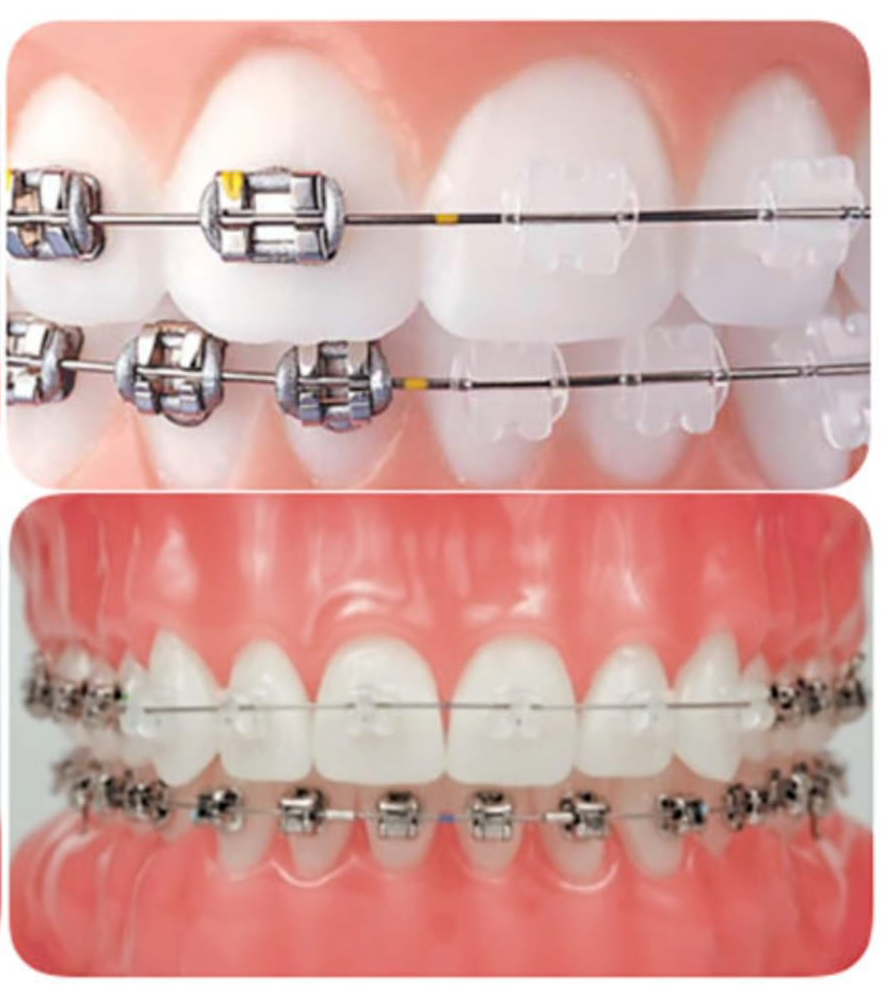
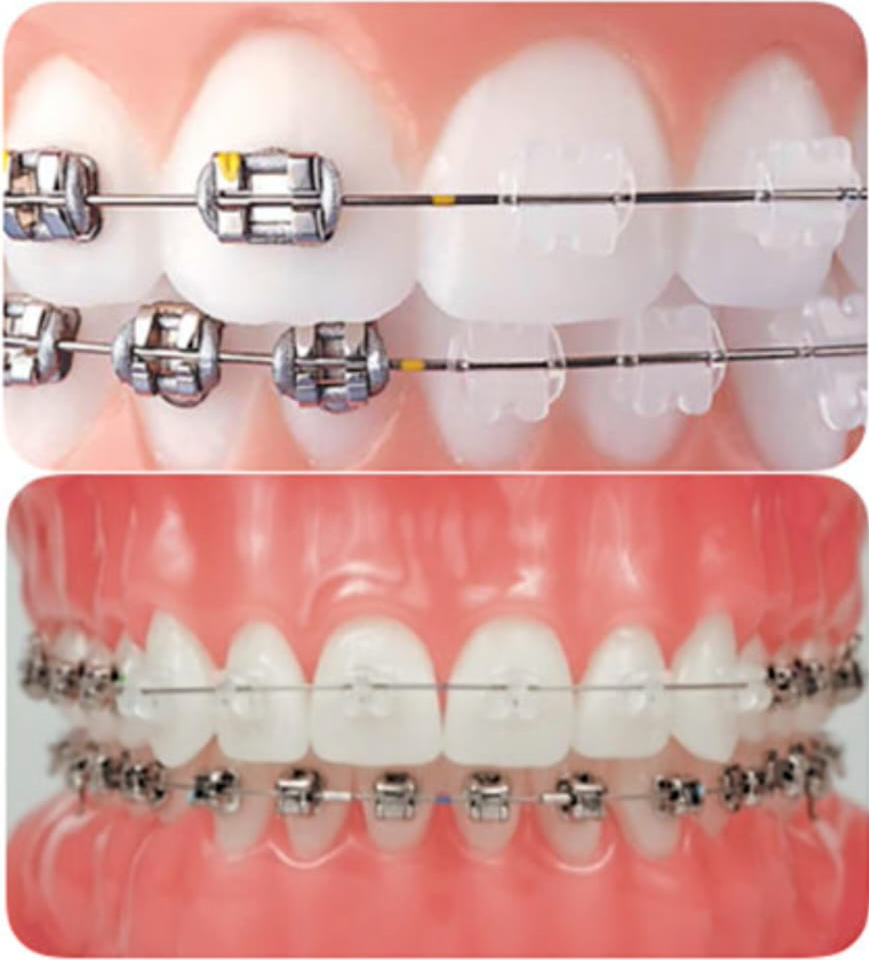
feat: servizi grid with images

diff --git a/index.html b/index.html
@@ -368,6 +368,10 @@
       .service-card--text {
         grid-row: span 1;
       }
+      .service-card--image-only {
+        grid-row: span 1;
+        min-height: 0;
+      }
       .service-card--media {
         display: flex;
         grid-row: span 2;
@@ -421,6 +425,75 @@
       width: 100%;
       height: 100%;
       object-fit: cover;
+      display: block;
+    }
+    .service-card--image-only {
+      display: flex;
+      flex-direction: column;
+      min-height: 0;
+      overflow: hidden;
+    }
+    .service-card--image-only .service-card__figure {
+      flex: 1 1 auto;
+      margin: 0;
+      position: relative;
+      overflow: hidden;
+      min-height: 10rem;
+      background: #eef7fc;
+    }
+    @media (min-width: 992px) {
+      /* Evita altezza 0 in griglia densa (figure con min-height 0 + cella ambigua = card “invisibile”). */
+      .service-card--image-only .service-card__figure {
+        min-height: 10.5rem;
+        flex: 1;
+      }
+    }
+    .service-card--image-only .service-card__figure img {
+      position: absolute;
+      inset: 0;
+      width: 100%;
+      height: 100%;
+      object-fit: cover;
+      object-position: center;
+      display: block;
+    }
+    .service-card--image-only.service-card--image-contain .service-card__figure {
+      padding: 0.85rem;
+      box-sizing: border-box;
+    }
+    .service-card--image-only.service-card--image-contain .service-card__figure img {
+      object-fit: contain;
+    }
+    /* Aligner PNG: sempre a tutta larghezza nel card, niente ritaglio, ratio naturale */
+    .service-card.service-card--image-only.service-card--image-fullwidth {
+      height: auto;
+      align-self: start;
+      background: #fff;
+    }
+    .service-card--image-only.service-card--image-fullwidth .service-card__figure {
+      position: static;
+      flex: 0 1 auto;
+      min-height: 0;
+      display: flex;
+      align-items: center;
+      justify-content: center;
+      padding: 0.65rem;
+      box-sizing: border-box;
+      background: #fff;
+    }
+    @media (min-width: 992px) {
+      .service-card--image-only.service-card--image-fullwidth .service-card__figure {
+        min-height: 0;
+      }
+    }
+    .service-card--image-only.service-card--image-fullwidth .service-card__figure img {
+      position: static;
+      inset: auto;
+      width: 100%;
+      max-width: 100%;
+      height: auto;
+      object-fit: contain;
+      object-position: center;
       display: block;
     }
     .service-card__top-accent {
@@ -1359,19 +1432,24 @@
     </section>
 
     <section id="servizi" class="services">
-      <div class="section-title">
+      <!-- <div class="section-title">
         <h2>In evidenza</h2>
         <p>I nostri servizi</p>
-      </div>
+      </div> -->
       <div class="services-grid">
         <div class="service-card service-card--media service-card--extra">
           <div class="service-card__image">
-            <img src="assets/images/brackets-types.png" alt="Tipi di brackets e soluzioni ortodontiche">
+            <img src="assets/images/brackets-silver-ceramic.png" alt="Brackets in metallo e ceramica per ortodonzia" loading="lazy" decoding="async">
           </div>
           <div class="service-card__body">
             <h3>Ortodonzia e gnatologia</h3>
             <p>Apparecchi fissi e mobili, allineatori trasparenti per un sorriso perfetto a ogni età; integrazione con la valutazione gnatologica quando necessario.</p>
-            <p class="service-card__more-row"><a href="#" class="service-card__more-link" data-modular-overlay-open="ortodonzia-overlay" aria-haspopup="dialog">I servizi</a></p>
+            <p class="service-card__more-row"><a href="#" class="service-card__more-link" data-modular-overlay-open="ortodonzia-overlay" aria-haspopup="dialog">Maggiori informazioni</a></p>
+          </div>
+        </div>
+        <div class="service-card service-card--image-only service-card--image-fullwidth">
+          <div class="service-card__figure">
+            <img src="assets/images/aligner-transparent.png" alt="Allineatore trasparente per ortodonzia" loading="lazy" decoding="async">
           </div>
         </div>
         <div class="service-card service-card--text">
@@ -1381,11 +1459,21 @@
             <p>Interventi implantari per sostituire denti mancanti in modo stabile e naturale.</p>
           </div>
         </div>
+        <div class="service-card service-card--image-only">
+          <div class="service-card__figure">
+            <img src="assets/images/morlino-main-door.webp" alt="Ingresso dello Studio Dentistico Morlino" loading="lazy" decoding="async">
+          </div>
+        </div>
         <div class="service-card service-card--text">
           <div class="service-card__top-accent" aria-hidden="true"></div>
           <div class="service-card__body">
             <h3>Protesi fissa e mobile</h3>
             <p>Soluzioni protesiche personalizzate per ripristinare funzione, comfort ed estetica.</p>
+          </div>
+        </div>
+        <div class="service-card service-card--image-only">
+          <div class="service-card__figure">
+            <img src="assets/images/morlino-team.webp" alt="Staff dello Studio Dentistico Morlino" loading="lazy" decoding="async">
           </div>
         </div>
         <div class="service-card service-card--text">
@@ -1395,6 +1483,16 @@
             <p>Estrazioni e interventi di chirurgia orale ambulatoriale quando indicati, dopo valutazione in studio.</p>
           </div>
         </div>
+        <div class="service-card service-card--image-only">
+          <div class="service-card__figure">
+            <img src="assets/images/morlino-waiting-room.webp" alt="Sala di attesa dello studio" loading="lazy" decoding="async">
+          </div>
+        </div>
+        <div class="service-card service-card--image-only">
+          <div class="service-card__figure">
+            <img src="assets/images/opt.png" alt="Ortopantomogramma: radiografia ortopanoramica delle arcate dentali" loading="lazy" decoding="async">
+          </div>
+        </div>
         <div class="service-card service-card--text">
           <div class="service-card__top-accent" aria-hidden="true"></div>
           <div class="service-card__body">
@@ -1402,20 +1500,51 @@
             <p>Cure canalari conservative per trattenere il dente naturale con tecniche moderne.</p>
           </div>
         </div>
+        <div class="service-card service-card--image-only service-card--image-contain">
+          <div class="service-card__figure">
+            <img src="assets/images/thoot-icon.png" alt="Odontoiatria e sorriso" loading="lazy" decoding="async">
+          </div>
+        </div>
+        <div class="service-card service-card--media">
+          <div class="service-card__image">
+            <img src="assets/images/whitening-blancone.jpeg" alt="Sbiancamento professionale e salute delle gengive">
+          </div>
+          <div class="service-card__body">
+            <h3>Igiene orale e sbiancamento dentale</h3>
+            <p>Pulizia professionale, prevenzione e controlli periodici; sbiancamento efficace e sicuro su indicazione clinica.</p>
+          </div>
+        </div>
+        <div class="service-card service-card--image-only">
+          <div class="service-card__figure">
+            <img src="assets/images/igiene-orale-piacere.webp" alt="Piacere nell'igiene orale e nella cura delle gengive" loading="lazy" decoding="async">
+          </div>
+        </div>
         <div class="service-card service-card--media service-card--extra">
           <span class="gallery-card__extra-badge" aria-hidden="true">Approfondimento</span>
           <div class="service-card__image">
-            <img src="assets/images/velvet-tmj-full.png" alt="Tecar Velvet TMJ">
+            <img src="assets/images/velvet-tmj-full.png" alt="Velvet TMJ: medical device in studio">
           </div>
           <div class="service-card__body">
             <h3>Tecar Velvet TMJ</h3>
-            <p>Tecnologia non invasiva che combina diatermia ed elettroporazione per il benessere dell'apparato temporo-mandibolare.</p>
+            <p>Nel nostro studio utilizziamo Velvet TMJ, un medical device che combina diatermia ed elettroporazione per trattamenti non invasivi verso il benessere dell'apparato temporo-mandibolare e del cavo orale.</p>
             <p class="service-card__more-row"><a href="#" class="service-card__more-link" data-modular-overlay-open="velvet-tmj-overlay" aria-haspopup="dialog">Informazioni sul trattamento</a></p>
+          </div>
+        </div>
+        <div class="service-card service-card--media service-card--extra">
+          <span class="gallery-card__extra-badge" aria-hidden="true">Approfondimento</span>
+          <div class="service-card__image">
+            <img src="assets/images/card-sinergia-vincente.png" alt="Sinergia vincente con Velvet TMJ">
+          </div>
+          <div class="service-card__body">
+            <h3>Benefici del Velvet TMJ</h3>
+            <p>Diatermia ed elettroporazione lavorano in sinergia per biostimolazione tessutale, riduzione dell'infiammazione e del dolore con percorsi rapidi, indolori e non invasivi. Scopri a quali sintomi e situazioni può essere utile e quali benefici attendersi nel tempo.</p>
             <p class="service-card__more-row"><a href="#" class="service-card__more-link" data-modular-overlay-open="velvet-consigli-overlay" aria-haspopup="dialog">Perché funziona</a></p>
           </div>
         </div>
-        <div class="service-card service-card--text">
-          <div class="service-card__top-accent" aria-hidden="true"></div>
+        <div class="service-card service-card--media">
+          <div class="service-card__image">
+            <img src="assets/images/opt-scans.jpg" alt="Scansioni panoramiche in esposizione in studio" loading="lazy" decoding="async">
+          </div>
           <div class="service-card__body">
             <h3>Radiografia ortopanoramica (OPT)</h3>
             <p>Vista panoramica delle arcate e delle strutture circostanti per diagnosi chiare e piani di cura condivisi.</p>
@@ -1426,15 +1555,6 @@
           <div class="service-card__body">
             <h3>Scanner intraorale per impronta ottica</h3>
             <p>Impronta digitale veloce e confortevole, senza paste tradizionali, per progetti protesici e ortodontici precisi.</p>
-          </div>
-        </div>
-        <div class="service-card service-card--media">
-          <div class="service-card__image">
-            <img src="assets/images/whitening-blancone.jpeg" alt="Sbiancamento professionale e salute delle gengive">
-          </div>
-          <div class="service-card__body">
-            <h3>Igiene orale e sbiancamento dentale</h3>
-            <p>Pulizia professionale, prevenzione e controlli periodici; sbiancamento efficace e sicuro su indicazione clinica.</p>
           </div>
         </div>
         <div class="service-card service-card--media service-card--extra service-card--disturbi-sonno">
@@ -1460,7 +1580,18 @@
           <div class="gallery-card__content">
             <h3 class="gallery-card__title"><a href="#" data-modular-overlay-open="velvet-tmj-overlay" aria-haspopup="dialog">Velvet TMJ</a></h3>
             <p class="gallery-card__text">Nel nostro studio utilizziamo Velvet TMJ, un medical device che combina diatermia ed elettroporazione per trattamenti non invasivi verso il benessere dell'apparato temporo-mandibolare e del cavo orale.</p>
-            <p class="gallery-card__text"><a href="#" class="gallery-card__link" data-modular-overlay-open="velvet-tmj-overlay" aria-haspopup="dialog">Per saperne di più</a></p>
+            <p class="gallery-card__text"><a href="#" class="gallery-card__link" data-modular-overlay-open="velvet-tmj-overlay" aria-haspopup="dialog">Informazioni sul trattamento</a></p>
+          </div>
+        </article>
+        <article class="gallery-card gallery-card--extra">
+          <span class="gallery-card__extra-badge" aria-hidden="true">Approfondimento</span>
+          <a href="#" class="gallery-card__media" data-modular-overlay-open="velvet-consigli-overlay" aria-haspopup="dialog">
+            <img src="assets/images/card-sinergia-vincente.png" alt="Sinergia vincente con Velvet TMJ">
+          </a>
+          <div class="gallery-card__content">
+            <h3 class="gallery-card__title"><a href="#" data-modular-overlay-open="velvet-consigli-overlay" aria-haspopup="dialog">Benefici del Velvet TMJ</a></h3>
+            <p class="gallery-card__text">Diatermia ed elettroporazione lavorano in sinergia per biostimolazione tessutale, riduzione dell'infiammazione e del dolore con percorsi rapidi, indolori e non invasivi. Indicazioni su bruxismo, ATM, cervicalgie, nevralgie e molte altre condizioni peri-orali: scopri sintomi, contesti clinici e benefici attesi.</p>
+            <p class="gallery-card__text"><a href="#" class="gallery-card__link" data-modular-overlay-open="velvet-consigli-overlay" aria-haspopup="dialog">Perché funziona</a></p>
           </div>
         </article>
         <article class="gallery-card">
@@ -1675,7 +1806,7 @@
         </div>
         <div class="modular-overlay__interleave-row modular-overlay__interleave-row--chess modular-overlay__interleave-row--chess-img-first">
           <figure class="modular-overlay__figure">
-            <img src="assets/images/brackets-silver-ceramic.webp" alt="Bracket metallici e bracket in ceramica estetica" loading="lazy" decoding="async">
+            <img src="assets/images/brackets-silver-ceramic.png" alt="Bracket metallici e bracket in ceramica estetica" loading="lazy" decoding="async">
           </figure>
           <div class="modular-overlay__prose">
             <p>Gli <strong>apparecchi fissi tradizionali</strong> utilizzano bracket <strong>metallici</strong> particolarmente versatili e robusti, spesso preferiti in casi complessi o in fasi di crescita. I bracket in <strong>ceramica</strong> o materiali più discreti offrono un profilo estetico più contenuto e sono una scelta frequente in età adulta o quando si desidera un impatto visivo minore nel tempo di trattamento.</p>
@@ -1702,7 +1833,7 @@
         </div>
         <div class="modular-overlay__interleave-row modular-overlay__interleave-row--chess modular-overlay__interleave-row--chess-text-first">
           <figure class="modular-overlay__figure">
-            <img src="assets/images/aligner-removing.webp" alt="Rimozione e gestione quotidiana degli allineatori" loading="lazy" decoding="async">
+            <img src="assets/images/aligner-removing.png" alt="Rimozione e gestione quotidiana degli allineatori" loading="lazy" decoding="async">
           </figure>
           <div class="modular-overlay__prose">
             <p>Un buon esito con gli allineatori dipende da <strong>compliance</strong>, igiene accurata e rispetto delle fasi di cambio calotta. In studio ti indichiamo come gestire la routine quotidiana, cosa fare in caso di irritazioni lievi e quando è necessario un controllo anticipato.</p>
@@ -1798,8 +1929,7 @@
     <button type="button" class="modular-overlay__backdrop js-modular-overlay-close" tabindex="-1" aria-label="Chiudi finestra"></button>
     <div class="modular-overlay__panel">
       <button type="button" class="modular-overlay__close js-modular-overlay-close" aria-label="Chiudi">&times;</button>
-      <h2 id="velvet-consigli-overlay-title" class="modular-overlay__title">Velvet TMJ a cosa serve</h2>
-      <p class="modular-overlay__tagline">Schede su sintomi, indicazioni e contesti clinici affrontati con Velvet TMJ nello studio.</p>
+      <h2 id="velvet-consigli-overlay-title" class="modular-overlay__title">Benefici del Velvet TMJ</h2>
       <div id="js-velvet-consigli-grid" class="modular-overlay__clone-gallery"></div>
     </div>
   </div>
@@ -1897,6 +2027,45 @@
           if (id) openOverlayById(id);
         });
       });
+
+      document.querySelectorAll('#servizi .service-card--extra').forEach(function (card) {
+        card.addEventListener('click', function (e) {
+          if (e.target.closest('a.service-card__more-link')) return;
+          var ids = [];
+          card.querySelectorAll('a[data-modular-overlay-open]').forEach(function (a) {
+            ids.push(a.getAttribute('data-modular-overlay-open'));
+          });
+          if (!ids.length) return;
+          e.preventDefault();
+          openOverlayById(ids[0]);
+        });
+      });
+
+      var galleryGrid = document.querySelector('#galleria .gallery-grid');
+      if (galleryGrid) {
+        galleryGrid.addEventListener('click', function (e) {
+          if (e.target.closest('.gallery-card__toggle')) return;
+          var article = e.target.closest('article.gallery-card');
+          if (!article) return;
+          if (e.target.closest('a[href^="tel:"]')) return;
+
+          var mediaFb = article.querySelector('a.gallery-card__media[href^="http"]');
+          if (mediaFb) {
+            if (e.target.closest('a.gallery-card__media')) return;
+            if (e.target.closest('.gallery-card__title a[href^="http"]')) return;
+            mediaFb.click();
+            return;
+          }
+
+          if (!article.classList.contains('gallery-card--extra')) return;
+          if (e.target.closest('a[data-modular-overlay-open]')) return;
+          var opener = article.querySelector('a[data-modular-overlay-open]');
+          var id = opener && opener.getAttribute('data-modular-overlay-open');
+          if (!id) return;
+          e.preventDefault();
+          openOverlayById(id);
+        });
+      }
 
       document.querySelectorAll('.js-modular-overlay-close').forEach(function (btn) {
         btn.addEventListener('click', function () {
